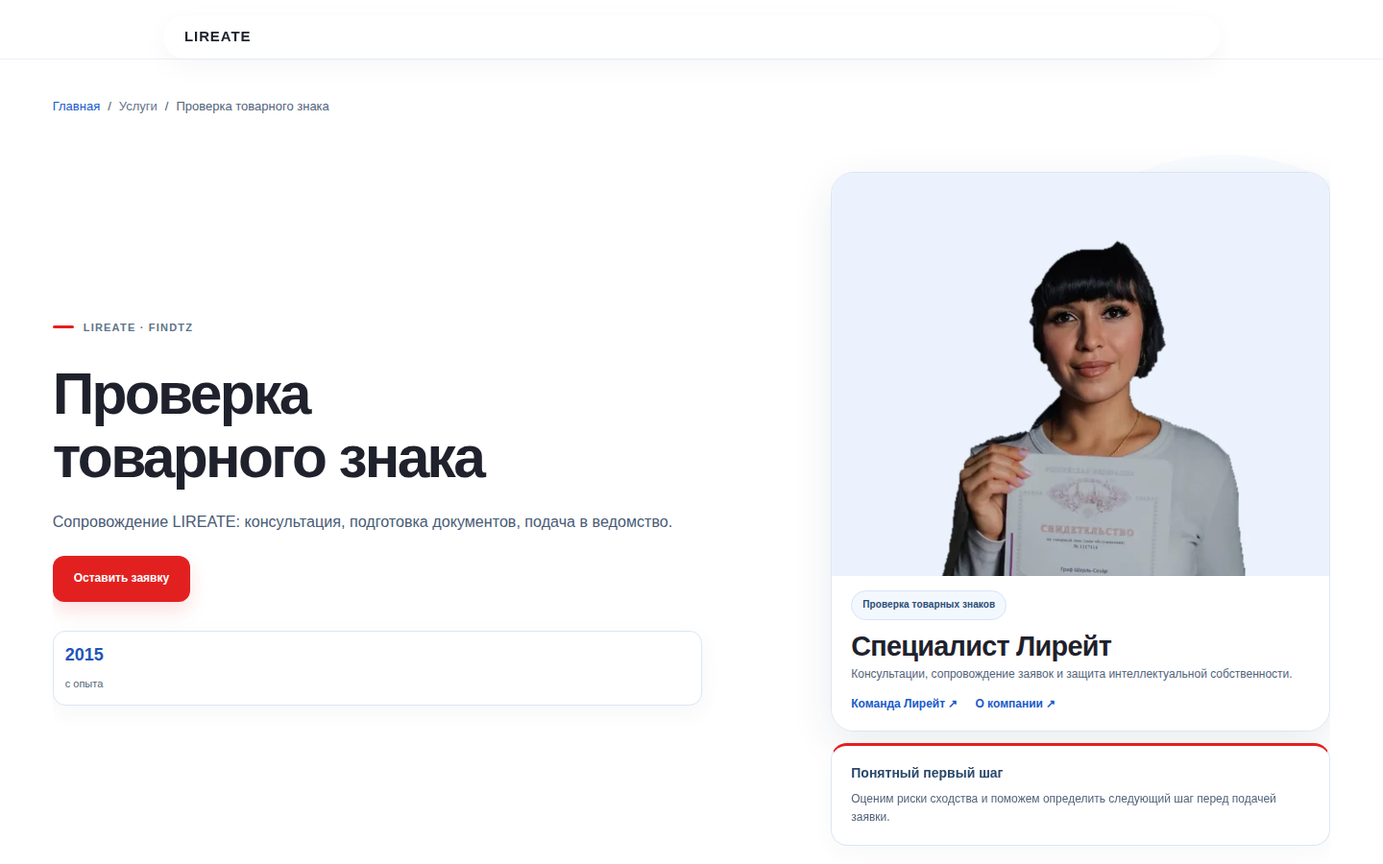
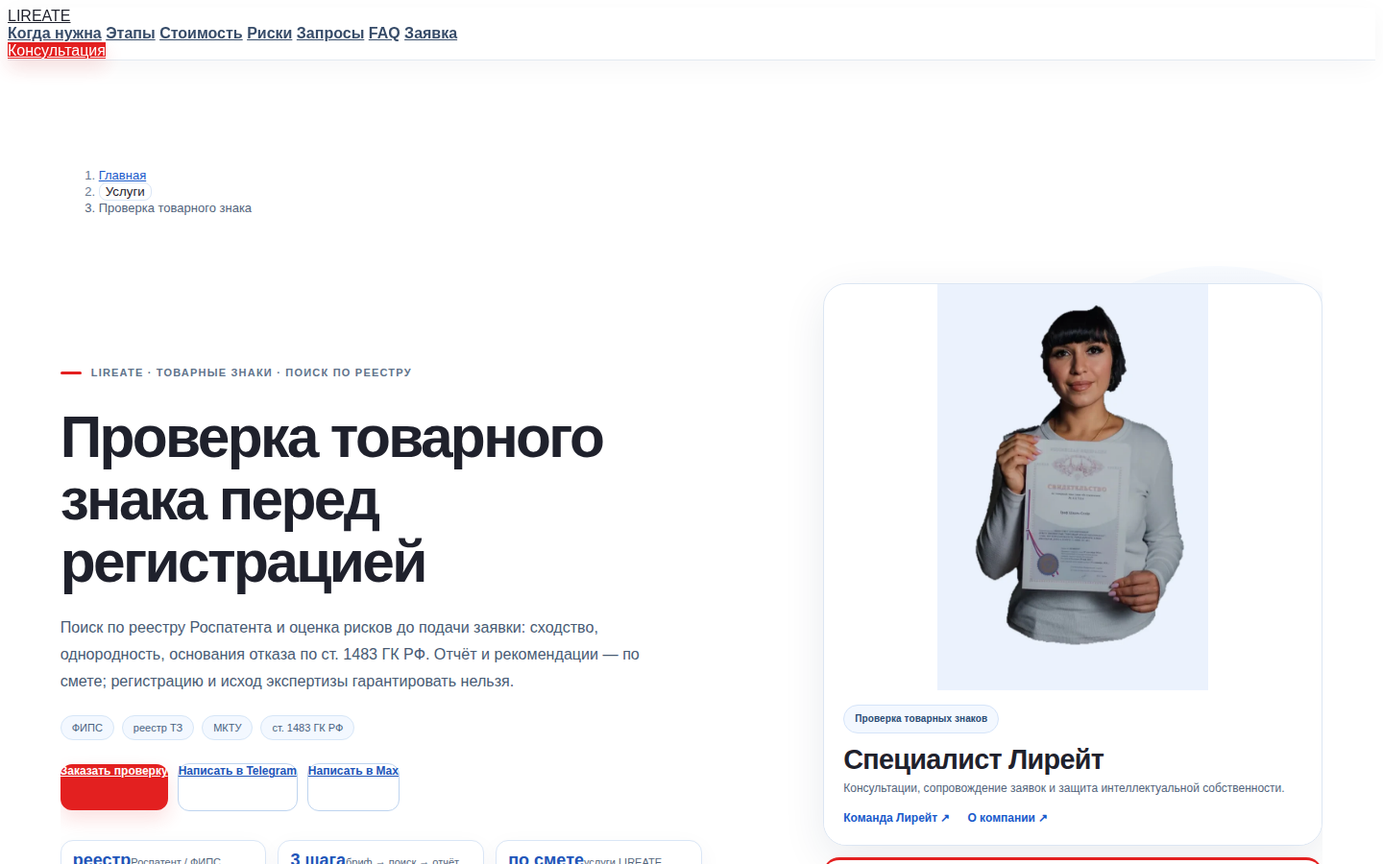
fix(six-photo-v4): портретная рамка эксперта и превью с живого HTML
- media: ширина по max-height (683/1024), без горизонтального среза
- hero grid: колонка 2 для карточки, как на главной r27
- PHOTO_FRAME: 50% 26% / scale 1.34 для портретных WebP
- capture: переинжект overlay, ожидание portrait-ready, cache v=20261126f
- скрины 6 страниц 1440/390 + verify-frames для 5 фото

diff --git a/template/css/lireate-six-services-photo-v4.css b/template/css/lireate-six-services-photo-v4.css
@@ -18,6 +18,7 @@ body.lx-photo-v4 .lx-breadcrumbs a{color:#195acb!important}
 body.lx-photo-v4 .lx-breadcrumbs [aria-current="page"]{color:#52637b!important}
 body.lx-photo-v4 .lx-breadcrumb-services-trigger{color:#1f212c!important;background:#fff!important;border:1px solid var(--pv-border)!important}
 body.lx-photo-v4 .lx-hero{position:relative;overflow:hidden;display:grid!important;grid-template-columns:minmax(0,1.07fr) minmax(290px,.93fr)!important;align-items:center!important;gap:clamp(26px,3vw,58px)!important;min-height:560px!important;padding:clamp(32px,4vw,64px) 0 34px!important;border:0!important;background:#fff!important;isolation:isolate}
+@media(min-width:961px){body.lx-photo-v4 .lx-hero>.lx-photo-v4-copy{grid-column:1!important;grid-row:1!important;padding-right:12px!important}body.lx-photo-v4 .lx-hero>.lx-photo-v4-expert-stack{grid-column:2!important;grid-row:1!important;justify-self:end!important}}
 body.lx-photo-v4 .lx-hero::before{content:"";position:absolute;z-index:-1;width:460px;height:460px;right:-120px;top:40px;border-radius:50%;background:radial-gradient(circle at 55% 45%,#f0f6ff 0%,#f8fbff 58%,transparent 75%);pointer-events:none}
 body.lx-photo-v4 .lx-hero-mascot-slot{display:none!important}
 body.lx-photo-v4 .lx-hero>.lx-photo-v4-copy{position:relative;z-index:2;min-width:0;max-width:690px!important;align-self:center}
@@ -37,9 +38,9 @@ body.lx-photo-v4 .lx-mini-stat span{color:#53657c!important;font-size:11px!impor
 body.lx-photo-v4 .lx-photo-v4-expert-stack{display:flex;flex-direction:column;align-self:center;gap:12px;min-width:0;max-width:520px;width:100%;justify-self:end;position:relative;z-index:2}
 body.lx-photo-v4 .lx-photo-v4-expert-card{overflow:hidden;background:#fff;border:1px solid #dce6f3;border-radius:24px;box-shadow:0 14px 45px rgba(24,47,75,.09);transition:transform .25s,box-shadow .25s}
 body.lx-photo-v4 .lx-photo-v4-expert-card:hover{transform:translateY(-2px);box-shadow:0 18px 48px rgba(24,47,75,.13)}
-body.lx-photo-v4 .lx-photo-v4-expert-media{position:relative;aspect-ratio:683/1024;width:100%;max-height:420px;background:#eaf2fc;overflow:hidden}
-body.lx-photo-v4 .lx-photo-v4-expert-media img{display:block;width:100%;height:100%;object-fit:cover!important;object-position:center top!important;position:relative;z-index:1;transition:transform .35s ease}
-body.lx-photo-v4 .lx-photo-v4-expert-card:hover img{transform:scale(1.03)}
+body.lx-photo-v4 .lx-photo-v4-expert-media{--pv-media-max-h:min(47vh,495px);position:relative;aspect-ratio:683/1024;width:min(100%,calc(var(--pv-media-max-h) * 683 / 1024));max-width:100%;max-height:var(--pv-media-max-h);height:auto;margin-inline:auto;background:#eaf2fc;overflow:hidden;isolation:isolate}
+body.lx-photo-v4 .lx-photo-v4-expert-media img{display:block;width:100%;height:100%;min-height:100%;max-height:var(--pv-media-max-h);object-fit:cover!important;object-position:var(--pv-photo-focus,50% 26%)!important;transform:scale(var(--pv-photo-zoom,1.3));transform-origin:var(--pv-photo-origin,50% 30%);position:relative;z-index:1;transition:transform .35s ease}
+body.lx-photo-v4 .lx-photo-v4-expert-card:hover .lx-photo-v4-expert-media img{transform:scale(var(--pv-photo-zoom,1.3))}
 body.lx-photo-v4 .lx-photo-v4-expert-info{background:#fff;padding:15px 20px 19px}
 body.lx-photo-v4 .lx-photo-v4-expert-role{display:inline-flex;align-items:center;max-width:100%;border:1px solid #d5e4f9;background:#f3f8ff;color:#2a4c75;border-radius:999px;padding:7px 11px;font-size:10px;line-height:1.45;font-weight:800;letter-spacing:.01em}
 body.lx-photo-v4 .lx-photo-v4-expert-name{margin:12px 0 4px;font-family:'Inter Tight',Manrope,Arial,sans-serif;font-size:clamp(23px,2vw,29px);line-height:1.11;letter-spacing:-.025em;color:#1f212c;font-weight:800}
@@ -80,7 +81,7 @@ body.lx-photo-v4 #contact{scroll-margin-top:94px}
 body.lx-photo-v4 .lx-section,body.lx-photo-v4 .lx-photo-v4-expert-stack{animation:lxPhotoReveal .5s ease both}
 @keyframes lxPhotoReveal{from{opacity:.5;transform:translateY(10px)}to{opacity:1;transform:none}}
 @media(min-width:1151px){body.lx-photo-v4 .lx-photo-v4-expert-stack{min-height:0}}
-@media(max-width:1149px){body.lx-photo-v4 .lx-hero{grid-template-columns:minmax(0,1fr) minmax(250px,.8fr)!important;min-height:430px!important}body.lx-photo-v4 .lx-hero h1{font-size:clamp(36px,4.2vw,56px)!important}body.lx-photo-v4 .lx-photo-v4-expert-stack{min-height:0}body.lx-photo-v4 .lx-photo-v4-expert-media{max-height:360px}}
-@media(max-width:760px){body.lx-photo-v4 .lx-breadcrumbs{padding-top:92px!important}body.lx-photo-v4 .lireate-svc-page{padding-inline:20px!important}body.lx-photo-v4 .lx-hero{grid-template-columns:1fr!important;gap:20px!important;min-height:0!important;padding:29px 0 0!important}body.lx-photo-v4 .lx-hero h1{font-size:clamp(35px,8vw,48px)!important}body.lx-photo-v4 .lx-hero .lx-hero-lead{font-size:15px!important}body.lx-photo-v4 .lx-photo-v4-expert-stack{max-width:100%;margin:6px auto 0}body.lx-photo-v4 .lx-photo-v4-expert-media{max-height:390px}body.lx-photo-v4 .lx-photo-v4-expert-info{padding:16px 18px 20px}body.lx-photo-v4 .lx-photo-v4-summary{margin-bottom:38px!important;padding:18px!important}body.lx-photo-v4 .lx-hero .lx-hero-cta{flex-wrap:wrap!important}body.lx-photo-v4 .lx-hero .lx-hero-cta .lx-btn{flex:1 1 180px}body.lx-photo-v4 .lx-hero-mini{margin-top:18px!important}}
-@media(max-width:380px){body.lx-photo-v4 .lireate-svc-page{padding-inline:15px!important}body.lx-photo-v4 .lx-hero h1{font-size:34px!important}body.lx-photo-v4 .lx-photo-v4-expert-media{max-height:340px}body.lx-photo-v4 .lx-photo-v4-expert-role{font-size:9px}body.lx-photo-v4 .lx-hero .lx-hero-cta .lx-btn{flex-basis:100%}}
+@media(max-width:1149px){body.lx-photo-v4 .lx-hero{grid-template-columns:minmax(0,1fr) minmax(250px,.8fr)!important;min-height:430px!important}body.lx-photo-v4 .lx-hero h1{font-size:clamp(36px,4.2vw,56px)!important}body.lx-photo-v4 .lx-photo-v4-expert-stack{min-height:0}body.lx-photo-v4 .lx-photo-v4-expert-media{--pv-media-max-h:min(42vh,438px);width:min(100%,calc(var(--pv-media-max-h) * 683 / 1024))}body.lx-photo-v4 .lx-photo-v4-expert-media img{max-height:var(--pv-media-max-h)}}
+@media(max-width:760px){body.lx-photo-v4 .lx-breadcrumbs{padding-top:92px!important}body.lx-photo-v4 .lireate-svc-page{padding-inline:20px!important}body.lx-photo-v4 .lx-hero{grid-template-columns:1fr!important;gap:20px!important;min-height:0!important;padding:29px 0 0!important}body.lx-photo-v4 .lx-hero h1{font-size:clamp(35px,8vw,48px)!important}body.lx-photo-v4 .lx-hero .lx-hero-lead{font-size:15px!important}body.lx-photo-v4 .lx-hero>.lx-photo-v4-expert-stack{grid-column:auto!important;grid-row:auto!important}body.lx-photo-v4 .lx-photo-v4-expert-stack{max-width:100%;margin:6px auto 0}body.lx-photo-v4 .lx-photo-v4-expert-media{--pv-media-max-h:none;width:100%;max-height:none}body.lx-photo-v4 .lx-photo-v4-expert-media img{max-height:none;transform:scale(var(--pv-photo-zoom-m,1.2))}body.lx-photo-v4 .lx-photo-v4-expert-card:hover .lx-photo-v4-expert-media img{transform:scale(var(--pv-photo-zoom-m,1.2))}body.lx-photo-v4 .lx-photo-v4-expert-info{padding:16px 18px 20px}body.lx-photo-v4 .lx-photo-v4-summary{margin-bottom:38px!important;padding:18px!important}body.lx-photo-v4 .lx-hero .lx-hero-cta{flex-wrap:wrap!important}body.lx-photo-v4 .lx-hero .lx-hero-cta .lx-btn{flex:1 1 180px}body.lx-photo-v4 .lx-hero-mini{margin-top:18px!important}}
+@media(max-width:380px){body.lx-photo-v4 .lireate-svc-page{padding-inline:15px!important}body.lx-photo-v4 .lx-hero h1{font-size:34px!important}body.lx-photo-v4 .lx-photo-v4-expert-role{font-size:9px}body.lx-photo-v4 .lx-hero .lx-hero-cta .lx-btn{flex-basis:100%}}
 @media(prefers-reduced-motion:reduce){html:has(body.lx-photo-v4){scroll-behavior:auto}body.lx-photo-v4 *,body.lx-photo-v4 *:before,body.lx-photo-v4 *:after{animation:none!important;transition:none!important}}

diff --git a/template/js/lireate-six-services-photo-v4.js b/template/js/lireate-six-services-photo-v4.js
@@ -11,6 +11,13 @@
     '/zashchita_avtorskih_prav':{photo:'specialist-copyright.webp',role:'Защита авторских прав',next:'Оценим доказательства авторства, нарушение и способы защиты ваших прав.'},
     '/dogovory':{photo:'specialist-registraciya.webp',role:'Договоры в сфере интеллектуальной собственности',next:'Опишите объект прав и задачу сделки — подберём подходящий вид договора.'}
   };
+  var PHOTO_FRAME={
+    'specialist-certificate.webp':{focus:'50% 30%',zoom:'1.16',origin:'50% 34%'},
+    'specialist-registraciya.webp':{focus:'50% 26%',zoom:'1.34',origin:'50% 30%'},
+    'specialist-prolongation.webp':{focus:'50% 28%',zoom:'1.28',origin:'50% 32%'},
+    'specialist-opposition.webp':{focus:'50% 26%',zoom:'1.34',origin:'50% 30%'},
+    'specialist-copyright.webp':{focus:'50% 26%',zoom:'1.34',origin:'50% 30%'}
+  };
   function make(tag,cls,text){var e=document.createElement(tag);if(cls)e.className=cls;if(text)e.textContent=text;return e;}
   function link(url,label){var a=make('a','',label+' ↗');a.href=url;return a;}
   function init(){
@@ -25,6 +32,13 @@
     var stack=make('aside','lx-photo-v4-expert-stack');stack.setAttribute('aria-label','Команда Лирейт');
     var card=make('article','lx-photo-v4-expert-card');
     var media=make('div','lx-photo-v4-expert-media');
+    media.setAttribute('data-photo',config.photo.replace(/\.webp$/,''));
+    var frame=PHOTO_FRAME[config.photo]||{focus:'50% 26%',zoom:'1.3',origin:'50% 30%'};
+    media.style.setProperty('--pv-photo-focus',frame.focus);
+    media.style.setProperty('--pv-photo-zoom',frame.zoom);
+    media.style.setProperty('--pv-photo-origin',frame.origin);
+    var zm=parseFloat(frame.zoom);
+    if(!isNaN(zm)){media.style.setProperty('--pv-photo-zoom-m',String(Math.max(1.08,zm*0.9).toFixed(2)));}
     var img=document.createElement('img');img.src=BASE+config.photo;img.alt='Фотография специалиста Лирейт';img.loading='eager';img.decoding='async';
     img.setAttribute('fetchpriority','high');
     img.onerror=function(){stack.style.display='none';};

diff --git a/scripts/capture_six_services_photo_v4_screenshots.py b/scripts/capture_six_services_photo_v4_screenshots.py
@@ -1,114 +1,153 @@
 #!/usr/bin/env python3
-"""Screenshots for six CMS service pages with photo-v4 overlay (1440×900, 390×900)."""
+"""Live CMS HTML + photo-v4 overlay screenshots (1440×900, 390×900)."""
 
-import os
+from __future__ import annotations
+
+import re
 import shutil
 import subprocess
 import tempfile
 import time
+import urllib.request
 from pathlib import Path
 
 ROOT = Path(__file__).resolve().parents[1]
 OUT = ROOT / "docs/screenshots/six-services-v4"
-SHARED_CSS = ROOT / "pages/services/_shared/lireate-service-dark.css"
-PHOTO_CSS = ROOT / "template/css/lireate-six-services-photo-v4.css"
-PHOTO_JS = ROOT / "template/js/lireate-six-services-photo-v4.js"
-IMAGES = ROOT / "template/images/services-v4"
-PORT = int(os.environ.get("LIREATE_SIX_PHOTO_V4_PORT", "19140"))
+PORT = int(__import__("os").environ.get("LIREATE_SIX_PHOTO_V4_PORT", "19140"))
+MARKER = "lireate-six-services-photo-v4-20261126"
+CACHE_VER = "20261126f"
 
-PAGES = {
-    "findtz": ("Проверка товарного знака", "findtz"),
-    "registraciya_tovarnogo_znaka": ("Регистрация товарного знака", "registraciya"),
-    "prodlenie_tovarnogo_znaka": ("Продление товарного знака", "prodlenie"),
-    "vozrazhenie_protiv_registracii_tovarnogo_znaka": ("Возражение против регистрации ТЗ", "vozrazhenie"),
-    "zashchita_avtorskih_prav": ("Защита авторских прав", "copyright"),
-    "dogovory": ("Договоры в сфере интеллектуальной собственности", "dogovory"),
-}
 
-DOGOVORY_GLASS = """
-  <div class="lx-glass lx-glass-anim" aria-label="Краткий маршрут">
-    <div class="lx-panel-head"><span>Договоры · маршрут</span><span class="lx-live">LIREATE</span></div>
-    <div class="lx-kpi-row">
-      <div class="lx-kpi"><b class="lx-stat-value">лицензия</b><small>исключительная или обычная</small></div>
-      <div class="lx-kpi"><b class="lx-stat-value">п. 3.10</b><small>госрегистрация лицензии</small></div>
-      <div class="lx-kpi"><b class="lx-stat-value">п. 3.11</b><small>отчуждение права</small></div>
-    </div>
-    <div class="lx-route">
-      <span class="lx-route-label">Этапы</span>
-      <ul class="lx-route-steps">
-        <li><span class="lx-route-node lx-route-lit">бриф</span></li>
-        <li><span class="lx-route-node lx-route-lit">проект</span></li>
-        <li><span class="lx-route-node">согласование</span></li>
-        <li><span class="lx-route-node">подписание</span></li>
-        <li><span class="lx-route-node">регистрация</span></li>
-      </ul>
-    </div>
-    <ul class="lx-feed">
-      <li>Анализ объекта и сторон</li>
-      <li>Проект договора под вашу сделку</li>
-    </ul>
-  </div>
+def live_host() -> str:
+    host = __import__("os").environ.get("LIREATE_PUBLIC_SITE_URL", "").strip().rstrip("/")
+    if not host:
+        raise SystemExit("Set LIREATE_PUBLIC_SITE_URL for live HTML capture")
+    return host
+
+ROUTES = (
+    "findtz",
+    "registraciya_tovarnogo_znaka",
+    "prodlenie_tovarnogo_znaka",
+    "vozrazhenie_protiv_registracii_tovarnogo_znaka",
+    "zashchita_avtorskih_prav",
+    "dogovory",
+)
+
+INJECT = (
+    "\n<!-- {marker} -->\n"
+    '<link rel="stylesheet" href="/template/css/lireate-six-services-photo-v4.css?v={ver}">\n'
+    '<script defer src="/template/js/lireate-six-services-photo-v4.js?v={ver}"></script>\n'
+).format(marker=MARKER, ver=CACHE_VER)
+
+ROUTER_PHP = """<?php
+$root = {root!r};
+$preview = {preview!r};
+$path = parse_url($_SERVER['REQUEST_URI'], PHP_URL_PATH);
+if ($path === '/sheet.html' && is_file($preview . '/sheet.html')) {{
+    header('Content-Type: text/html; charset=utf-8');
+    readfile($preview . '/sheet.html');
+    return true;
+}}
+if (strpos($path, '/template/') === 0) {{
+    $file = $root . $path;
+    if (is_file($file)) {{
+        if (preg_match('/\\.css$/', $file)) header('Content-Type: text/css; charset=utf-8');
+        if (preg_match('/\\.(js|mjs)$/', $file)) header('Content-Type: application/javascript; charset=utf-8');
+        if (preg_match('/\\.webp$/', $file)) header('Content-Type: image/webp');
+        readfile($file);
+        return true;
+    }}
+    http_response_code(404);
+    echo 'missing';
+    return true;
+}}
+$slug = trim($path, '/');
+if ($slug !== '' && is_file($preview . '/' . $slug . '/index.html')) {{
+    header('Content-Type: text/html; charset=utf-8');
+    readfile($preview . '/' . $slug . '/index.html');
+    return true;
+}}
+return false;
 """
 
 
-def page_html(title: str, slug_key: str, route: str) -> str:
-    glass = DOGOVORY_GLASS if route == "dogovory" else ""
-    return f"""<!DOCTYPE html>
-<html lang="ru">
-<head>
-<meta charset="utf-8">
-<meta name="viewport" content="width=device-width, initial-scale=1">
-<title>{title} — LIREATE</title>
-<link rel="stylesheet" href="/shared/lireate-service-dark.css">
-<link rel="stylesheet" href="/template/css/lireate-six-services-photo-v4.css?v=20261126d">
-<script defer src="/template/js/lireate-six-services-photo-v4.js?v=20261126d"></script>
-</head>
-<body class="lireate-svc-body">
-<div class="lx-nav-shell"><header class="lx-nav-pill"><a class="lx-logo" href="/">LIREATE</a></header></div>
-<main class="lireate-svc-page">
-<nav class="lx-breadcrumbs lx-breadcrumbs--in-page" aria-label="Хлебные крошки">
-  <ol><li><a href="/">Главная</a></li><li>Услуги</li><li aria-current="page">{title}</li></ol>
-</nav>
-<section class="lx-hero" id="top">
-  <div class="lx-hero-mascot-slot"></div>
-  <div>
-    <p class="lx-eyebrow">LIREATE · {slug_key}</p>
-    <h1>{title}</h1>
-    <p class="lx-hero-lead">Сопровождение LIREATE: консультация, подготовка документов, подача в ведомство.</p>
-    <div class="lx-hero-cta"><a class="lx-btn lx-btn-primary" href="#contact">Оставить заявку</a></div>
-    <div class="lx-hero-mini"><div class="lx-mini-stat"><strong>2015</strong><span>с опыта</span></div></div>
-  </div>
-  {glass}
-</section>
-</main>
-</body>
-</html>
-"""
+def fetch_live(route: str) -> str:
+    req = urllib.request.Request(
+        f"{live_host()}/{route}/",
+        headers={"User-Agent": "lireate-six-photo-v4-preview/1.0"},
+    )
+    with urllib.request.urlopen(req, timeout=120) as resp:
+        return resp.read().decode("utf-8", "replace")
+
+
+def inject_overlay(html: str) -> str:
+    html = re.sub(
+        r"\n?<!--\s*" + re.escape(MARKER) + r"\s*-->\s*",
+        "\n",
+        html,
+        flags=re.I,
+    )
+    html = re.sub(
+        r"<link[^>]+lireate-six-services-photo-v4\.css[^>]*>\s*",
+        "",
+        html,
+        flags=re.I,
+    )
+    html = re.sub(
+        r"<script[^>]+lireate-six-services-photo-v4\.js[^>]*>\s*</script>\s*",
+        "",
+        html,
+        flags=re.I,
+    )
+    return re.sub(r"</head>", INJECT + "</head>", html, count=1, flags=re.I)
 
 
 def prepare_docroot(base: Path) -> None:
-    (base / "shared").mkdir(parents=True, exist_ok=True)
-    shutil.copy2(SHARED_CSS, base / "shared/lireate-service-dark.css")
-    for route in PAGES:
+    for route in ROUTES:
         (base / route).mkdir(parents=True, exist_ok=True)
-        title, _ = PAGES[route]
-        (base / route / "index.html").write_text(page_html(title, route, route), encoding="utf-8")
+        html = inject_overlay(fetch_live(route))
+        (base / route / "index.html").write_text(html, encoding="utf-8")
     tpl = base / "template"
     shutil.copytree(ROOT / "template/css", tpl / "css", dirs_exist_ok=True)
     shutil.copytree(ROOT / "template/js", tpl / "js", dirs_exist_ok=True)
-    shutil.copytree(IMAGES, tpl / "images/services-v4", dirs_exist_ok=True)
+    shutil.copytree(ROOT / "template/images", tpl / "images", dirs_exist_ok=True)
+
+
+def verify_five_photos(page, base_url: str) -> None:
+    """Sanity frames for 5 WebP at 1440 / 1280 / 768 / 390 via findtz+routes."""
+    photo_routes = {
+        "specialist-certificate": "findtz",
+        "specialist-registraciya": "registraciya_tovarnogo_znaka",
+        "specialist-prolongation": "prodlenie_tovarnogo_znaka",
+        "specialist-opposition": "vozrazhenie_protiv_registracii_tovarnogo_znaka",
+        "specialist-copyright": "zashchita_avtorskih_prav",
+    }
+  # snapshot photo crops in OUT verify subfolder
+    vdir = OUT / "verify-frames"
+    vdir.mkdir(parents=True, exist_ok=True)
+    for vp_w, tag in ((1440, "1440"), (1280, "1280"), (768, "768"), (390, "390")):
+        for photo, route in photo_routes.items():
+            page.set_viewport_size({"width": vp_w, "height": 900})
+            page.goto(f"{base_url}/{route}/", wait_until="networkidle", timeout=120000)
+            page.wait_for_selector(".lx-photo-v4-expert-media img", timeout=20000)
+            loc = page.locator(".lx-photo-v4-expert-media").first
+            loc.screenshot(path=str(vdir / f"{photo}-{tag}.png"))
 
 
 def main() -> int:
     OUT.mkdir(parents=True, exist_ok=True)
-    docroot = Path(tempfile.mkdtemp(prefix="six-photo-v4-"))
+    docroot = Path(tempfile.mkdtemp(prefix="six-live-overlay-"))
     prepare_docroot(docroot)
+    router = docroot / "router.php"
+    router.write_text(ROUTER_PHP.format(root=str(ROOT), preview=str(docroot)), encoding="utf-8")
     proc = subprocess.Popen(
-        ["php", "-S", "127.0.0.1:{0}".format(PORT), "-t", str(docroot)],
+        ["php", "-S", f"127.0.0.1:{PORT}", str(router)],
+        cwd=str(docroot),
         stdout=subprocess.DEVNULL,
         stderr=subprocess.DEVNULL,
     )
-    time.sleep(0.4)
+    time.sleep(0.5)
+    base = f"http://127.0.0.1:{PORT}"
     try:
         from playwright.sync_api import sync_playwright
     except ImportError:
@@ -119,34 +158,48 @@ def main() -> int:
         with sync_playwright() as p:
             browser = p.chromium.launch()
             page = browser.new_page()
-            for route in PAGES:
+            for route in ROUTES:
                 for tag, w, h in (("1440", 1440, 900), ("390", 390, 900)):
-                    url = "http://127.0.0.1:{0}/{1}/".format(PORT, route)
                     page.set_viewport_size({"width": w, "height": h})
-                    page.goto(url, wait_until="networkidle", timeout=60000)
-                    page.wait_for_selector(".lx-photo-v4-expert-card img", timeout=15000)
-                    out = OUT / "{0}-{1}.png".format(route, tag)
+                    page.goto(f"{base}/{route}/", wait_until="networkidle", timeout=120000)
+                    page.wait_for_selector(".lx-photo-v4-expert-card img", timeout=30000)
+                    page.wait_for_function(
+                        """() => {
+                          const m = document.querySelector('.lx-photo-v4-expert-media');
+                          if (!m) return false;
+                          const r = m.getBoundingClientRect();
+                          return r.height > 0 && r.height >= r.width * 0.95;
+                        }""",
+                        timeout=20000,
+                    )
+                    page.evaluate("window.scrollTo(0,0)")
+                    out = OUT / f"{route}-{tag}.png"
                     page.screenshot(path=str(out), full_page=False)
                     print("wrote", out)
-            # contact sheet: five photos on light bg
+            verify_five_photos(page, base)
+            # contact sheet
             sheet = OUT / "specialists-on-light.png"
-            page.set_viewport_size({"width": 1440, "height": 900})
             rows = []
-            for name in sorted(IMAGES.glob("specialist-*.webp")):
+            for name in sorted((ROOT / "template/images/services-v4").glob("specialist-*.webp")):
                 rows.append(
-                    '<figure><img src="/template/images/services-v4/{0}" alt=""><figcaption>{0}</figcaption></figure>'.format(
-                        name.name
-                    )
+                    f'<figure><img src="/template/images/services-v4/{name.name}" alt="">'
+                    f"<figcaption>{name.name}</figcaption></figure>"
                 )
             html = (
-                "<!DOCTYPE html><html><head><style>body{{margin:0;background:#fff;font-family:Manrope,sans-serif}}"
-                "main{{padding:24px;display:grid;grid-template-columns:repeat(5,1fr);gap:16px}}"
-                "figure{{margin:0}}img{{width:100%;aspect-ratio:683/1024;object-fit:cover;object-position:center top;border-radius:16px;border:1px solid #dae6f6}}"
-                "figcaption{{font-size:10px;color:#52637b;margin-top:6px}}</style></head>"
-                "<body><main>{0}</main></body></html>".format("".join(rows))
+                "<!DOCTYPE html><html><head><style>"
+                "body{margin:0;background:#fff;font-family:Manrope,sans-serif}"
+                "main{padding:24px;display:grid;grid-template-columns:repeat(5,1fr);gap:16px}"
+                "figure{margin:0}img{width:100%;aspect-ratio:683/1024;object-fit:cover;"
+                "object-position:var(--f,50% 26%);border-radius:16px;border:1px solid #dae6f6}"
+                ".specialist-certificate{--f:50% 30%}.specialist-registraciya{--f:50% 26%}"
+                ".specialist-prolongation{--f:50% 28%}.specialist-opposition{--f:50% 26%}"
+                ".specialist-copyright{--f:50% 26%}"
+                "figcaption{font-size:10px;color:#52637b;margin-top:6px}</style></head>"
+                f"<body><main>{''.join(rows)}</main></body></html>"
             )
             (docroot / "sheet.html").write_text(html, encoding="utf-8")
-            page.goto("http://127.0.0.1:{0}/sheet.html".format(PORT), wait_until="networkidle")
+            page.set_viewport_size({"width": 1440, "height": 900})
+            page.goto(f"{base}/sheet.html", wait_until="networkidle")
             page.screenshot(path=str(sheet), full_page=True)
             print("wrote", sheet)
             browser.close()

diff --git a/scripts/lireate_six_services_photo_v4_install.py b/scripts/lireate_six_services_photo_v4_install.py
@@ -30,8 +30,8 @@ ASSETS = (
     'specialist-opposition', 'specialist-copyright'))
 INJECTION = (
     '\n<!-- ' + MARKER + ' -->\n'
-    '<link rel="stylesheet" href="/template/css/lireate-six-services-photo-v4.css?v=20261126d">\n'
-    '<script defer src="/template/js/lireate-six-services-photo-v4.js?v=20261126d"></script>\n'
+    '<link rel="stylesheet" href="/template/css/lireate-six-services-photo-v4.css?v=20261126f">\n'
+    '<script defer src="/template/js/lireate-six-services-photo-v4.js?v=20261126f"></script>\n'
 )
 HEAD_CLOSE = re.compile(r'</head\s*>', re.IGNORECASE)
 
